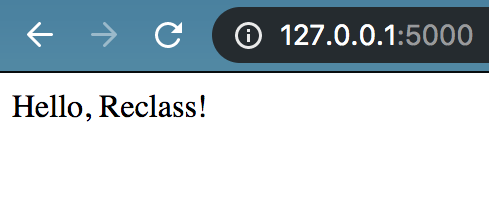
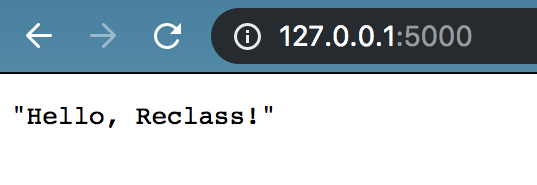
Make Flask RESTful; Create ToyNetValues resource and SQLite table

diff --git a/flasksrc/db.py b/flasksrc/db.py
@@ -1,0 +1,45 @@
+import sqlite3
+
+import click
+from flask import current_app, g
+from flask.cli import with_appcontext
+
+def init_app(app):
+    app.teardown_appcontext(close_db)
+    app.cli.add_command(init_db_command)
+
+
+def get_db():
+    if 'db' not in g:
+        g.db = sqlite3.connect(
+            current_app.config['DATABASE'],
+            detect_types=sqlite3.PARSE_DECLTYPES
+        )
+        g.db.row_factory = sqlite3.Row
+
+    return g.db
+
+
+def close_db(e=None):
+    db = g.pop('db', None)
+
+    if db is not None:
+        db.close()
+
+
+def init_db():
+    db = get_db()
+
+    with current_app.open_resource('schema.sql') as f:
+        db.executescript(f.read().decode('utf8'))
+
+    with current_app.open_resource('seed_data/toynet_values.sql') as f:
+        db.executescript(f.read().decode('utf8'))
+
+
+@click.command('init-db')
+@with_appcontext
+def init_db_command():
+    """Clear the existing data and create new tables."""
+    init_db()
+    click.echo('Initialized the database.')

diff --git a/flasksrc/value.py b/flasksrc/value.py
@@ -1,0 +1,24 @@
+from flask import Flask, request
+from flask_restful import Resource, Api, abort
+
+from flasksrc.db import get_db
+
+class ToyNetValue(Resource):
+    def get(self, value_id):
+        db = get_db()
+        error = None
+
+        rows = db.execute(
+            'SELECT v.name, vi.organization, vi.quote ' + \
+            'FROM toynet_values AS v LEFT JOIN toynet_value_inspirations as vi ' + \
+            'ON v.id = vi.value_id WHERE v.id = (?) ',
+            (str(value_id),)
+        ).fetchall()
+
+        if not len(rows):
+            abort(404, message="value {} doesn't exist".format(value_id))
+
+        return {
+            'value': rows[0]['name'],
+            'inspiration': [{'organization': r['organization'], 'definition': r['quote']} for r in rows]
+        }, 200

diff --git a/flasksrc/__init__.py b/flasksrc/__init__.py
@@ -1,7 +1,12 @@
 import os
 
 from flask import Flask
+from flask_restful import Resource, Api
 
+class HelloReclass(Resource):
+    def get(self):
+        # return {'hello': 'reclass'}
+        return 'Hello, Reclass!'
 
 def create_app(test_config=None):
     # create and configure the app
@@ -24,9 +29,15 @@ def create_app(test_config=None):
     except OSError:
         pass
 
-    # a simple page that says hello
-    @app.route('/')
-    def hello():
-        return 'Hello, Reclass!'
+    # initialize DB
+    from . import db
+    db.init_app(app)
+
+    # make RESTful
+    api = Api(app)
+    api.add_resource(HelloReclass, '/')
+
+    from .value import ToyNetValue
+    api.add_resource(ToyNetValue, '/values/<string:value_id>')
 
     return app

diff --git a/README.md b/README.md
@@ -1,6 +1,10 @@
 # toynet-flask
 Backend service of ToyNet emulator and learning platform
 
+Created with:
+- https://flask.palletsprojects.com/en/1.1.x/ for application structure and SQLite database (will become PostgreSQL)
+- https://flask-restful.readthedocs.io/en/latest/quickstart.html for Flask
+
 # Requirements
 
 ## Python
@@ -44,23 +48,46 @@ pip3 install -r requirements.txt
 MacOS / Linux:
 ```
 $ export FLASK_APP=flasksrc
-$ export FLASK_ENV=development // restarts server after code changes
+
+# restarts server after code changes
+$ export FLASK_ENV=development
+
+# creates instance/flaskr.sqlite
+$ flask init-db 
+Initialized the database.
+
 $ flask run
- * Running on http://127.0.0.1:5000/
+ * Serving Flask app "flasksrc" (lazy loading)
+ * Environment: development
+ * Debug mode: on
+ * Running on http://127.0.0.1:5000/ (Press CTRL+C to quit)
+ * Restarting with stat
+ * Debugger is active!
+ * Debugger PIN: 220-725-712
  ```
 
 Windows:
 ```
 > set FLASK_APP=flasksrc
-> set FLASK_ENV=development // restarts server after code changes
+> set FLASK_ENV=development
+> flask init-db
 > flask run
 ```
 
 Windows PowerShell:
 ```
 > $env:FLASK_APP = "flasksrc"
-> $env:FLASK_ENV = "development" // restarts server after code changes
+> $env:FLASK_ENV = "development"
+> flask init-db
 > flask run
 ```
 
 ![Running App](https://github.com/Project-Reclass/toynet-flask/blob/main/images/hello-reclass.png)
+
+# Troubleshooting
+
+Q: How do I use a table I added in `schema.sql` or `seed_data/<resource>.sql`?
+A: delete instance/flaskr.sqlite and run flask init-db again.
+
+Q: How do I get rid of a table?
+A: delete `instance/flaskr.sqlite` and run `flask init-db` again.
